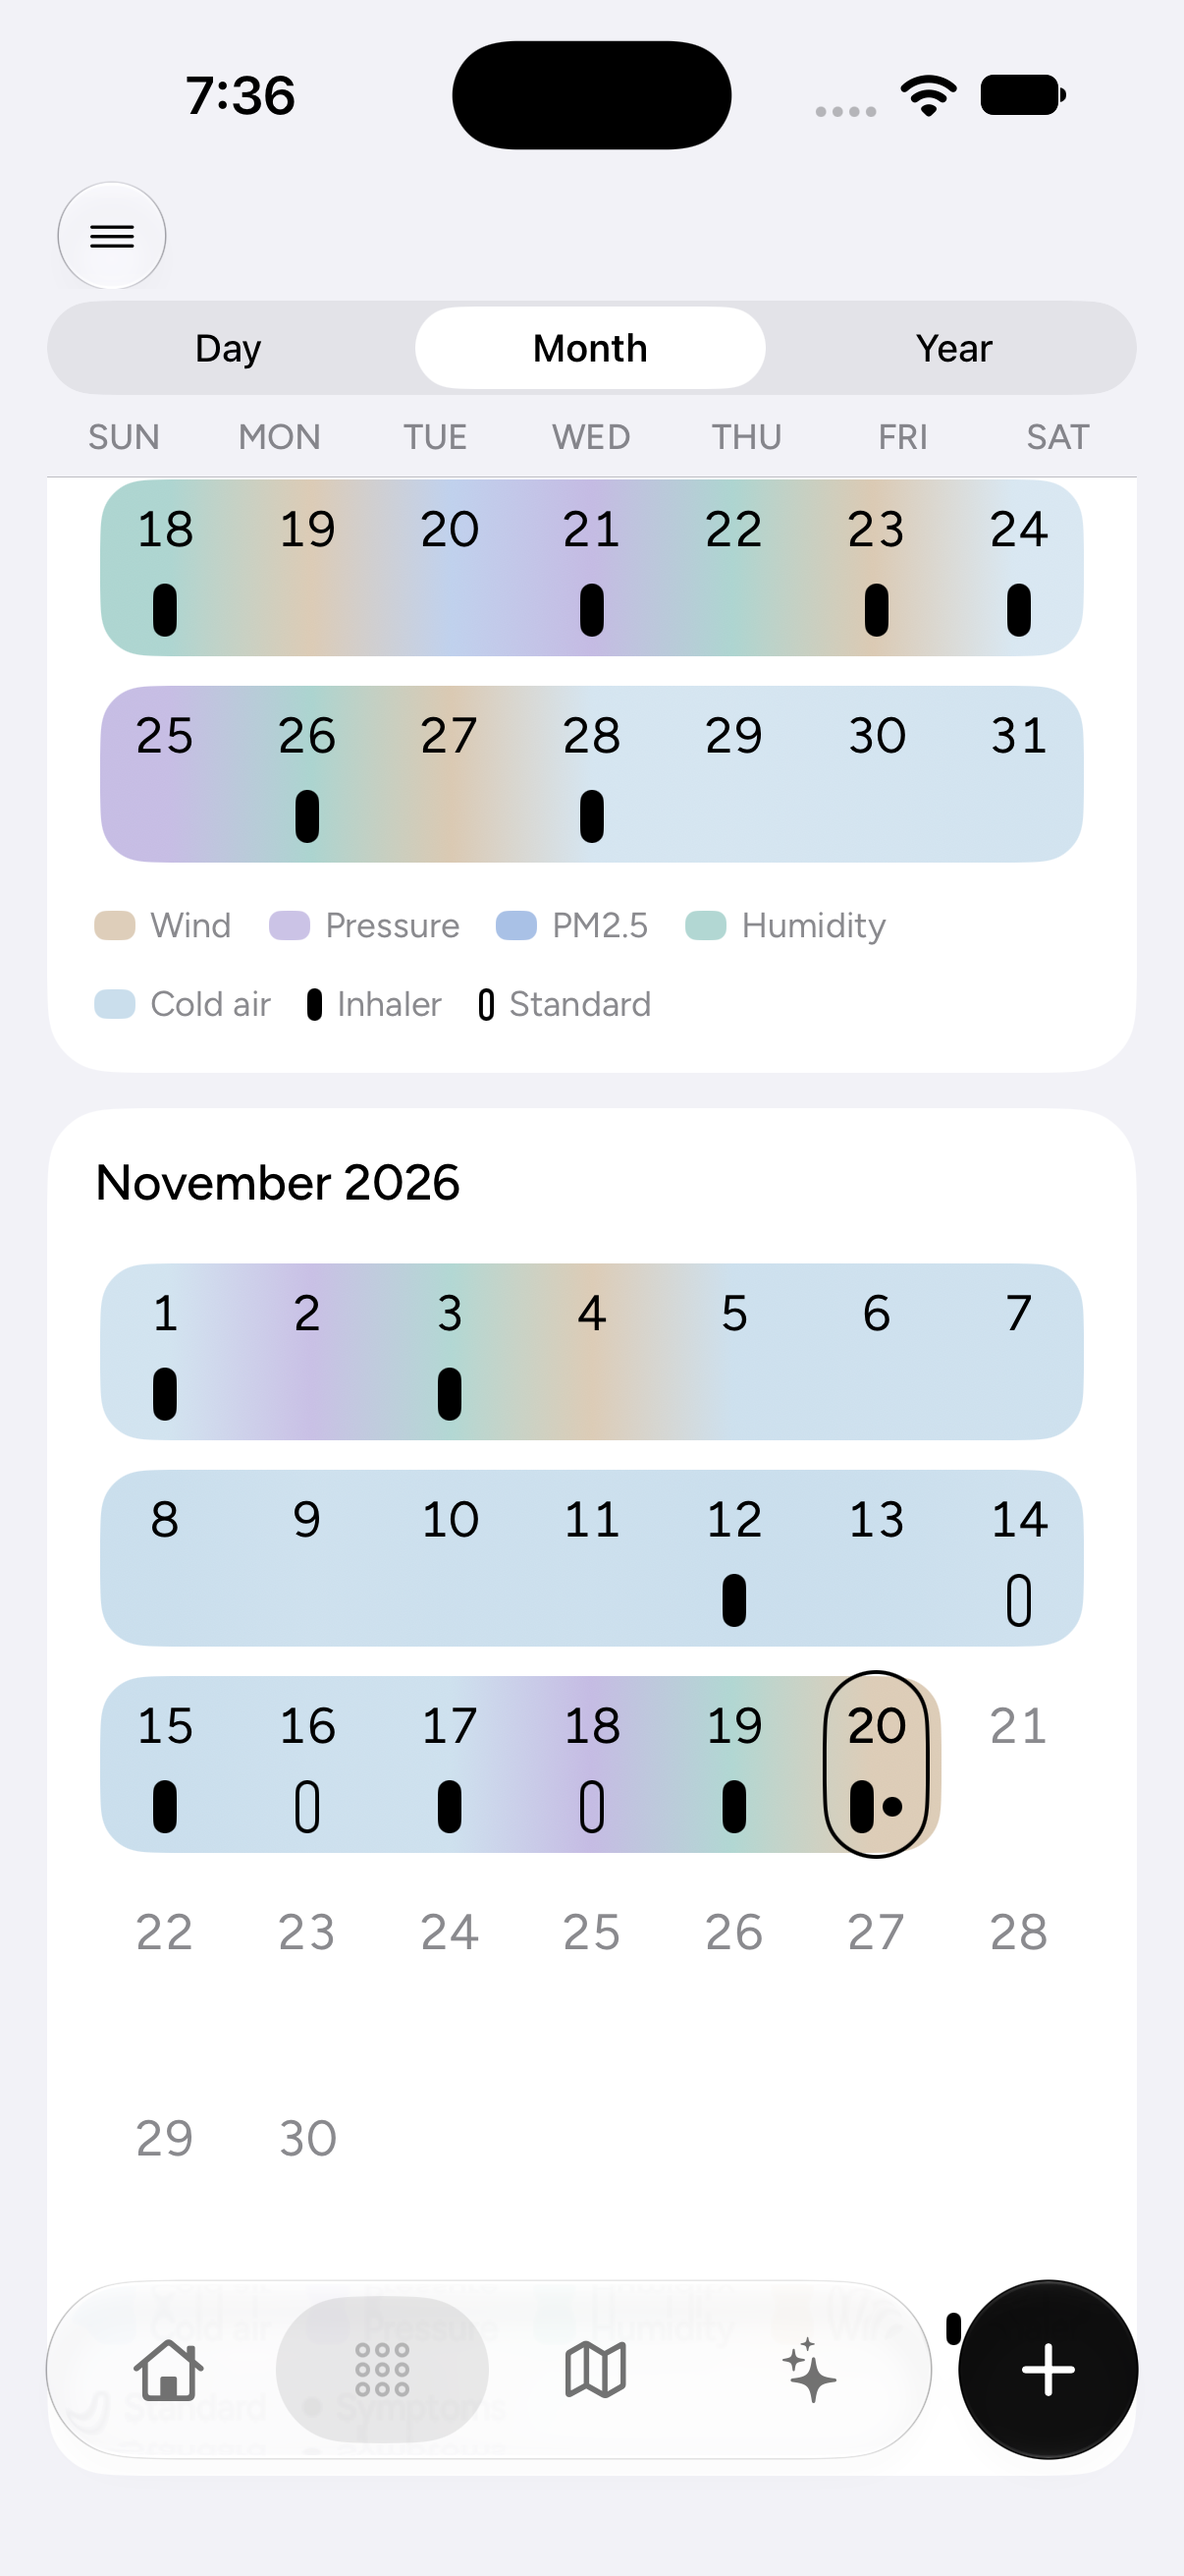
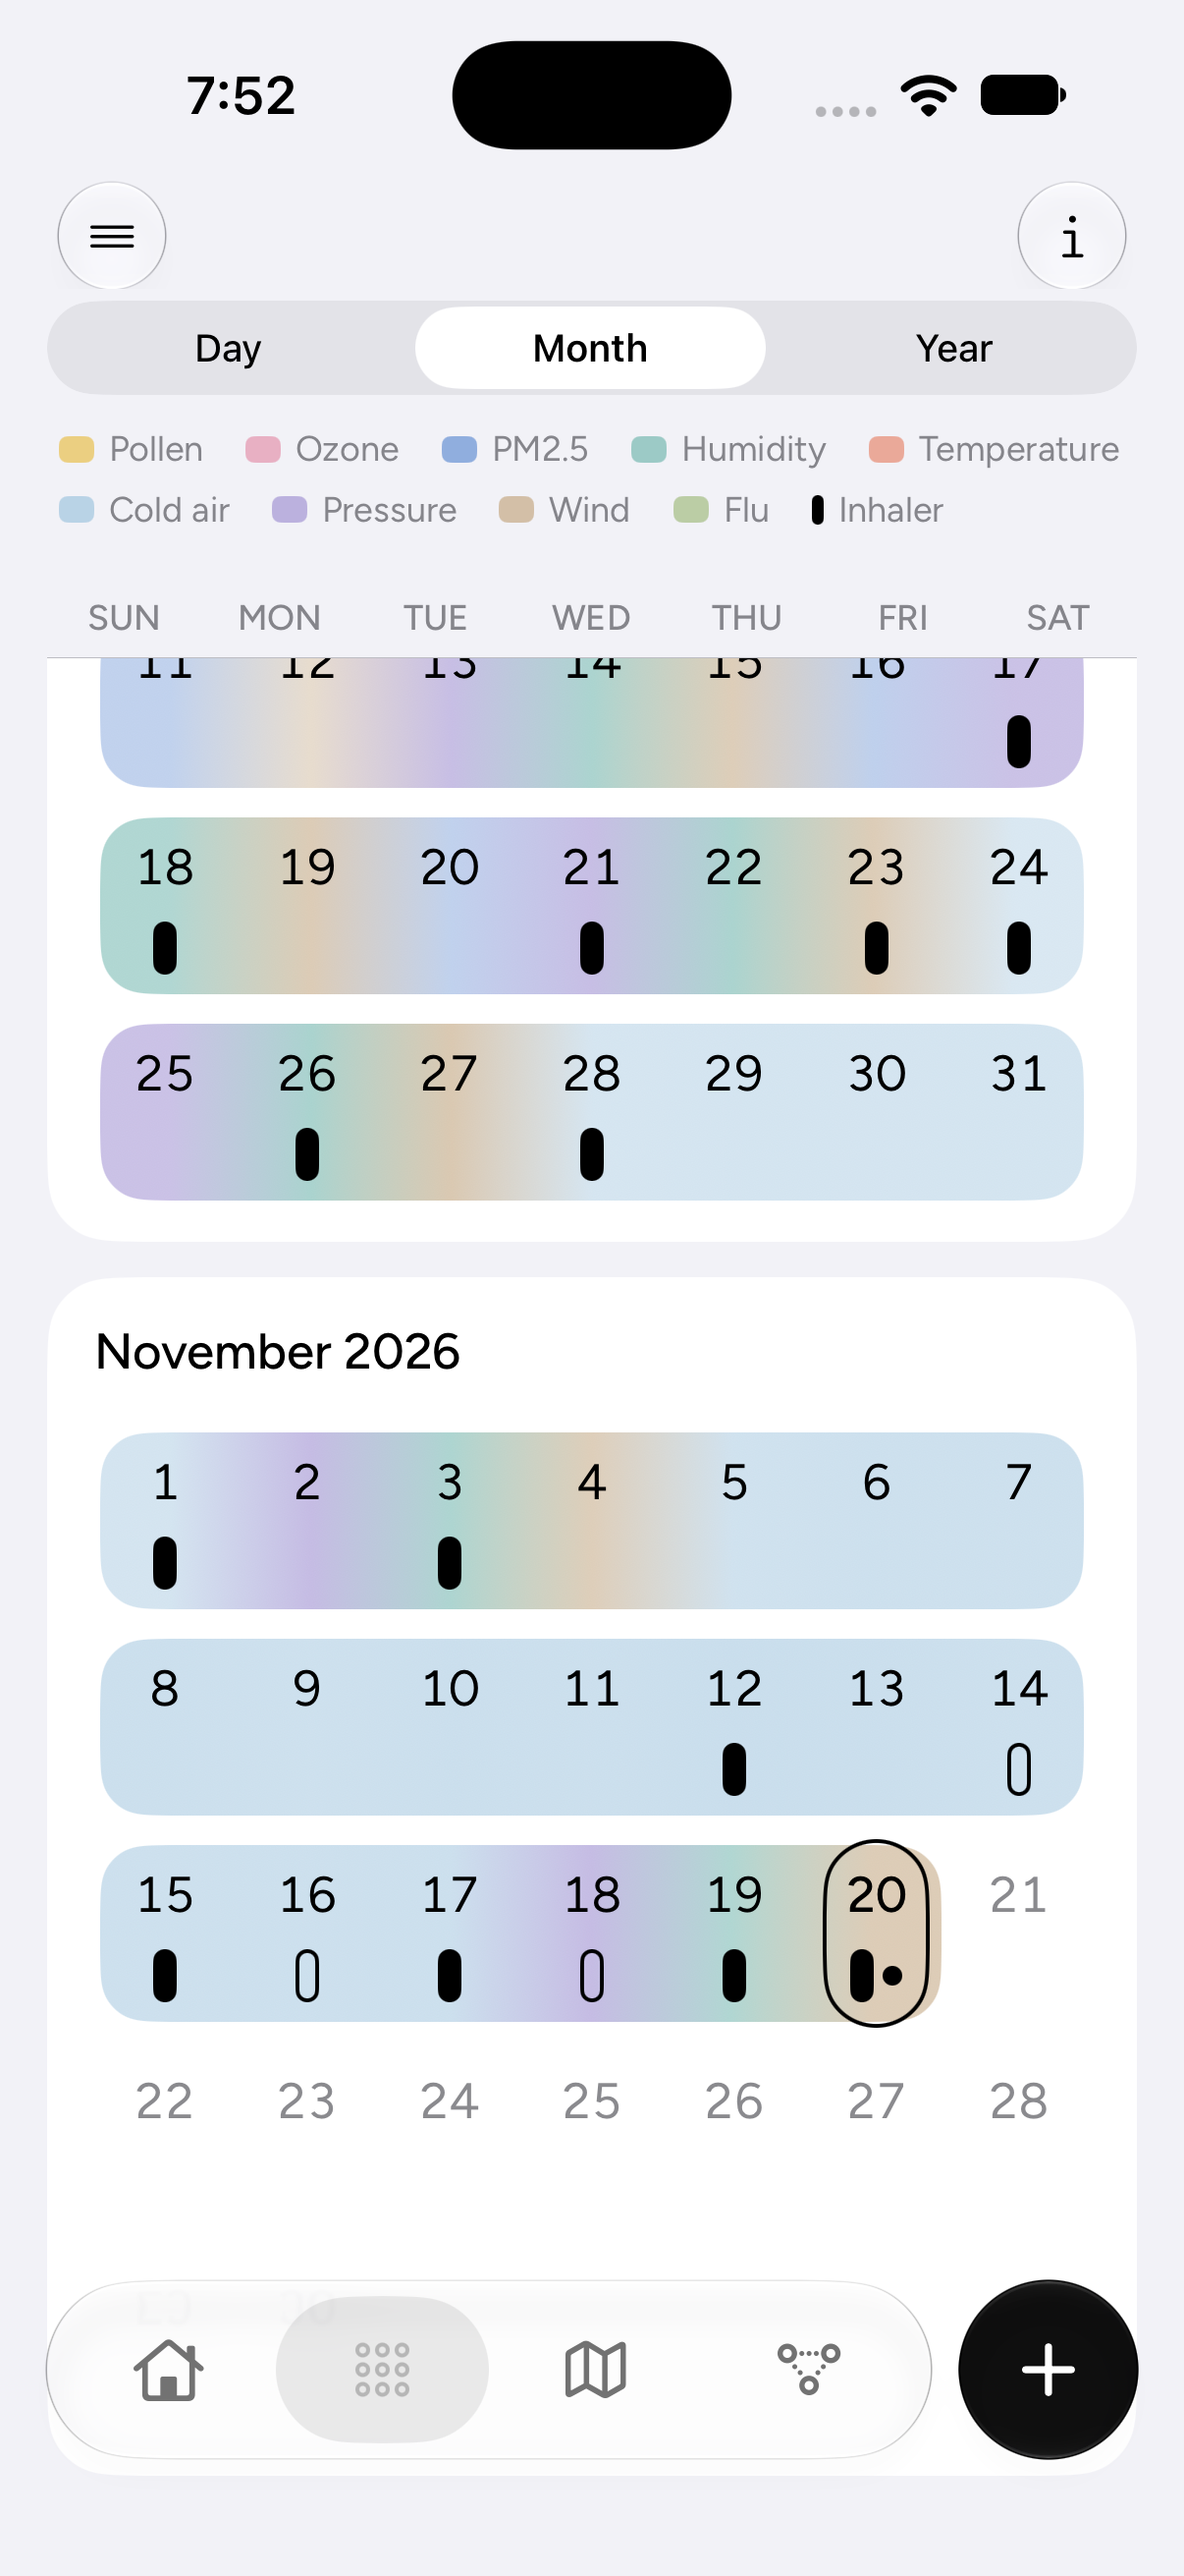
Indoors on Insights, 2024 sample year, colour key on Month and Year
- Insights: a new Indoors family (cooking, pets, cleaning, dust, mold, smoke, strong scents) from confirmed
  journal tags; Allergens and Irritants now cover the outdoor air only. Archetype "Home-led".
- Year reaches back to 2024 in the demo, each year with its own sample seasons
- A two-line colour key pinned over Month and Year, set apart from the weekdays; ⓘ keeps the longer key

Core tests: 227 pass (profile now has six families).

diff --git a/ios/AsthmaCore/Sources/AsthmaCore/Lift/AirProfile.swift b/ios/AsthmaCore/Sources/AsthmaCore/Lift/AirProfile.swift
@@ -13,6 +13,8 @@ public struct AirProfile: Sendable, Equatable {
     /// History: keep them (`exertion` reads "Exercise").
     public enum Category: String, Sendable, CaseIterable, Identifiable {
         case weather, biologics, particulates, exertion, infections
+        /// What you note about where you were (April, Nov 20): cooking, pets, cleaning, dust, mold, smoke, scents.
+        case indoor
         public var id: String { rawValue }
 
         public var title: String {
@@ -23,6 +25,7 @@ public struct AirProfile: Sendable, Equatable {
             case .exertion: "Exercise"
             // Colds going around and colds you mention. Never "infection" about you.
             case .infections: "Colds and flu"
+            case .indoor: "Indoors"
             }
         }
 
@@ -30,24 +33,27 @@ public struct AirProfile: Sendable, Equatable {
         public var covers: String {
             switch self {
             case .weather: "Cold, dry air, heat and humidity, sudden changes"
-            case .biologics: "Pollen, mold, pets"
-            case .particulates: "Fine particles, ozone, smoke, fumes, strong scents"
+            case .biologics: "Pollen"
+            case .particulates: "Fine particles, ozone, wildfire smoke"
             case .exertion: "Being active in the hour before"
             case .infections: "Flu-like illness around, colds you mention"
+            case .indoor: "Cooking, pets, cleaning, dust, mold, smoke, strong scents"
             }
         }
 
-        /// About you, not the air: printed in the text colour, never on the map.
-        public var isBody: Bool { self == .exertion || self == .infections }
+        /// About you, not the outdoor air: printed in the text colour, never on the map. Indoors is what you
+        /// noted, so it isn't on the map either.
+        public var isBody: Bool { self == .exertion || self == .infections || self == .indoor }
 
         /// Which lift-table bins belong here. Time and place (hour, season, place, indoor/outdoor) and stress
         /// sit outside the families.
         public static func of(bin: String) -> Category? {
             switch bin {
             case "temp", "humidity", "temp_drop", "heat_alert", "wind", "tag_coldAir", "pressure_change", "storm": .weather
-            case "pollen_weed", "pollen_tree", "pollen_grass", "tag_pets", "tag_mold": .biologics
-            case "pm25", "ozone", "smoke_at_point", "tag_smoke", "tag_dust", "tag_cleaningProducts", "tag_strongScents",
-                 "tag_cooking": .particulates
+            case "pollen_weed", "pollen_tree", "pollen_grass": .biologics
+            case "pm25", "ozone", "smoke_at_point": .particulates
+            // What you noted indoors gets its own family (April, Nov 20), apart from the outdoor air.
+            case "tag_pets", "tag_mold", "tag_smoke", "tag_dust", "tag_cleaningProducts", "tag_strongScents", "tag_cooking": .indoor
             case "tag_exercise", "exertion": .exertion
             case "ili", "tag_coldOrFlu": .infections
             default: nil
@@ -123,6 +129,7 @@ public struct AirProfile: Sendable, Equatable {
         let ozone = row("ozone", "high", 6, 14, 7, 40, gated: true)
         let humid = row("humidity", "humid", 5, 14, 9, 40, gated: false)
         let exercise = row("tag_exercise", "yes", 2, 6, 2, 15, gated: false)
+        let pets = row("tag_pets", "yes", 3, 7, 2, 16, gated: false)
         func gap(_ r: LiftRow) -> Double { r.attackRate - r.baselineRate }
         return AirProfile(axes: [
             Axis(category: .weather, strength: gap(humid), status: .early, lead: humid),
@@ -130,6 +137,7 @@ public struct AirProfile: Sendable, Equatable {
             Axis(category: .particulates, strength: gap(ozone), status: .pattern, lead: ozone),
             Axis(category: .exertion, strength: gap(exercise), status: .early, lead: exercise),
             Axis(category: .infections, strength: 0, status: .notTracked, lead: nil),
+            Axis(category: .indoor, strength: gap(pets), status: .early, lead: pets),
         ])
     }()
 }

diff --git a/ios/AsthmaCore/Sources/AsthmaCore/Lift/Archetype.swift b/ios/AsthmaCore/Sources/AsthmaCore/Lift/Archetype.swift
@@ -14,7 +14,7 @@ public struct Archetype: Sendable, Equatable {
     public enum Kind: String, Codable, Sendable, CaseIterable {
         case forming, noClearTrigger
         // One family leads. Weather by its group; `weather` when its lead row has no group.
-        case weather, coldAir, heatHumid, suddenChange, biologics, particulates, exertion, infections
+        case weather, coldAir, heatHumid, suddenChange, biologics, particulates, exertion, infections, indoor
         // Known pairs.
         case hotHazy, coldEffort, stormSeason, seasonal, coldSeason
         /// Any other pair: named from its lead and companion (`name` on the archetype, kept in the snapshot).
@@ -68,6 +68,7 @@ public struct Archetype: Sendable, Equatable {
         case .particulates: .particulates
         case .exertion: .exertion
         case .infections: .infections
+        case .indoor: .indoor
         }
     }
 
@@ -107,6 +108,7 @@ public struct Archetype: Sendable, Equatable {
         case .particulates: "Air-quality-led"
         case .exertion: "Effort-led"
         case .infections: "Comes with colds"
+        case .indoor: "Home-led"
         case .hotHazy: "Hot, hazy days"
         case .coldEffort: "Cold air and effort"
         case .stormSeason: "Storm season"
@@ -136,6 +138,7 @@ public struct Archetype: Sendable, Equatable {
         case .particulates: "poor air"
         case .exertion: "effort"
         case .infections: "colds going around"
+        case .indoor: "things indoors"
         }
     }
 
@@ -148,10 +151,11 @@ public struct Archetype: Sendable, Equatable {
         case .coldAir: "Your flare days tend to come with cold or dry air."
         case .heatHumid: "Your flare days tend to be hot, or heavy and humid."
         case .suddenChange: "Your flare days tend to follow a sharp drop in temperature or a change in the weather."
-        case .biologics: "Your flare days line up with living things in the air: pollen, pets or mold."
+        case .biologics: "Your flare days line up with pollen in the air."
         case .particulates: "Your flare days line up with what's floating in the air: ozone, fine particles or smoke."
         case .exertion: "Your flare days come after being active."
         case .infections: "Your flare days tend to come when colds and flu are going around."
+        case .indoor: "Your flare days come with things indoors, like cooking, pets or cleaning."
         case .hotHazy: "Your flare days tend to be hot, with ozone or fine particles up."
         case .coldEffort: "Your flare days come with effort in cold or dry air."
         case .stormSeason: "Your flare days come when the weather turns while pollen is up."
@@ -228,6 +232,7 @@ public extension AirProfile {
         .particulates: ["Coarse dust (PM10)", "Traffic fumes (NO₂)"],
         .exertion: [],
         .infections: ["Coming down with something"],
+        .indoor: [],
     ]
 
     /// Every trigger in a category: the biggest flare-vs-baseline gap first (that's the one that leads the
@@ -244,7 +249,7 @@ public extension AirProfile {
         // listed, so the family reads complete. Journal tags wait for a reviewed note, except in Self, which
         // is nothing but tags: without them the card would open on nothing.
         for def in Bins.all where Category.of(bin: def.bin) == c && bins[def.bin] == nil
-            && (!def.bin.hasPrefix("tag_") || c == .exertion) {
+            && (!def.bin.hasPrefix("tag_") || c == .exertion || c == .indoor) {
             out.append(Trigger(name: Bins.label(def.bin), strength: .notTracked, row: nil))
         }
         for missing in notYet[c] ?? [] where !out.contains(where: { $0.name == missing }) {

diff --git a/ios/AsthmaLog/Journal/MenusMomentsView.swift b/ios/AsthmaLog/Journal/MenusMomentsView.swift
@@ -93,11 +93,14 @@ struct MenusMomentsView: View {
             switch mode {
             case .day: dayList(counts)
             case .month:
-                // The weekdays stay put above the scrolling months.
+                // The key, then the weekdays, stay put above the scrolling months (April, Nov 20: the key at a glance).
+                Self.keyStrip.padding(.bottom, 22)
                 weekdayHeader.padding(.horizontal, 16).padding(.bottom, 6)
                 Divider().padding(.horizontal, 16)
                 monthList(counts)
-            case .year: yearList(counts)
+            case .year:
+                Self.keyStrip.padding(.bottom, 16)
+                yearList(counts)
             }
         }
         .sensoryFeedback(.selection, trigger: mode)
@@ -272,6 +275,27 @@ struct MenusMomentsView: View {
         }
     }
 
+    /// The colours at a glance, pinned over Month and Year (April, Nov 20): a row you can slide, each colour and its
+    /// name, then the inhaler mark. ⓘ has the longer key.
+    static var keyStrip: some View {
+        // Wrapped, not a sideways scroll (April, Nov 20): two lines with room between them.
+        FlowLayout(spacing: 14, lineSpacing: 6) {
+            ForEach(AirBlanket.keyOrder, id: \.self) { k in
+                HStack(spacing: 5) {
+                    RoundedRectangle(cornerRadius: 3, style: .continuous).fill(AirBlanket.ink(k).opacity(0.75)).frame(width: 12, height: 9)
+                    Text(k).font(Theme.Figtree.font(size: 12)).foregroundStyle(.secondary)
+                }
+            }
+            HStack(spacing: 5) {
+                pill(filled: true, width: 4, height: 10)
+                Text("Inhaler").font(Theme.Figtree.font(size: 12)).foregroundStyle(.secondary)
+            }
+        }
+        .frame(maxWidth: .infinity, alignment: .leading)
+        .padding(.horizontal, 20).padding(.top, 4)
+        .accessibilityElement(children: .combine)
+    }
+
     private var weekdayHeader: some View {
         let symbols = cal.veryShortStandaloneWeekdaySymbols
         let order = (0..<7).map { (cal.firstWeekday - 1 + $0) % 7 }
@@ -401,7 +425,9 @@ struct MenusMomentsView: View {
     // MARK: Year
 
     private var years: [Int] {
-        Array(cal.component(.year, from: firstDay)...cal.component(.year, from: now))
+        // The demo reaches back to 2024 (April, Nov 20), so the sample seasons show over more than one year.
+        let first = cal.component(.year, from: firstDay)
+        return Array((AirBlanket.demoAir ? min(first, 2024) : first)...cal.component(.year, from: now))
     }
 
     private func yearList(_ counts: [Date: (rescue: Int, standard: Int)]) -> some View {

diff --git a/ios/AsthmaLog/Insights/AirRadar.swift b/ios/AsthmaLog/Insights/AirRadar.swift
@@ -49,6 +49,7 @@ struct AirRadar: View {
             case .particulates: return Theme.airPM25.color
             case .exertion: return Theme.airNO2.color.mix(with: Theme.airPM10.color, by: 0.4)
             case .infections: return Theme.airIllness.color
+            case .indoor: return Theme.airNO2.color
             }
         }
         return switch c {
@@ -58,6 +59,7 @@ struct AirRadar: View {
         // About you, not the air: the key ink, like the text (Print, owner Oct 21), never a new hue.
         case .exertion: WeatherColor.coolFamilies ? WeatherColor.hex(0x9470CD) : WeatherColor.flat ? Color.primary : Theme.rescueSoft
         case .infections: WeatherColor.coolFamilies ? WeatherColor.hex(0x5F75C1) : WeatherColor.flat ? Color.primary : Theme.rescueSoft
+        case .indoor: WeatherColor.coolFamilies ? WeatherColor.hex(0x8A7F70) : WeatherColor.flat ? Color.primary : Theme.rescueSoft
         }
     }
 
@@ -263,6 +265,7 @@ extension AirProfile.Category {
         case .particulates: "Irritants"
         case .exertion: "Exercise"
         case .infections: "Colds and flu"
+        case .indoor: "Indoors"
         }
     }
 }

diff --git a/ios/AsthmaLog/Journal/AirBlanket.swift b/ios/AsthmaLog/Journal/AirBlanket.swift
@@ -46,6 +46,9 @@ struct AirBlanket: View {
 
     /// Watercolour palette (April, Nov 20: calmer than the flowers' full inks, mid-tone like paint on paper).
     /// Same hue for each condition as the garden, so they still read as one family.
+    /// The colours in the order the keys list them.
+    static let keyOrder = ["Pollen", "Ozone", "PM2.5", "Humidity", "Temperature", "Cold air", "Pressure", "Wind", "Flu"]
+
     static func ink(_ name: String) -> Color {
         func hex(_ v: UInt32) -> Color {
             Color(red: Double(v >> 16 & 0xFF) / 255, green: Double(v >> 8 & 0xFF) / 255, blue: Double(v & 0xFF) / 255)

diff --git a/ios/AsthmaLog/Theme/Icons.swift b/ios/AsthmaLog/Theme/Icons.swift
@@ -10,6 +10,7 @@ enum Icons {
     static let me = "person.fill"
     static let exercise = "figure.run"
     static let colds = "facemask.fill"
+    static let indoor = "sofa.fill"
     /// Your voice and your body: their own stops on the rail.
     static let voice = "waveform"
     static let body = "figure.walk"
@@ -36,6 +37,7 @@ enum Icons {
         case .biologics: biologics
         case .exertion: exercise
         case .infections: colds
+        case .indoor: indoor
         }
     }
 

diff --git a/ios/AsthmaCore/Tests/AsthmaCoreTests/AirProfileTests.swift b/ios/AsthmaCore/Tests/AsthmaCoreTests/AirProfileTests.swift
@@ -19,7 +19,7 @@ import Testing
 
     @Test func demoFramesGiveABoundedShapeWithCounts() {
         let p = AirProfile(report: Lift.compute(DemoData.frames(), gate: .demo))
-        #expect(p.axes.count == 5)
+        #expect(p.axes.count == 6)
         #expect(p.axis(.infections).status == .notTracked)
         #expect(p.axes.allSatisfy { (0...1).contains($0.strength) })
         // No reviewed notes in the demo frames: exertion can't be read yet.

diff --git a/ios/AsthmaLog/Insights/MenusProfileFlower.swift b/ios/AsthmaLog/Insights/MenusProfileFlower.swift
@@ -49,7 +49,7 @@ struct MenusProfileFlower: View {
         case .particulates: return ink("PM2.5")
         case .biologics: return ink("Pollen")
         case .weather: return ink("Temperature")
-        case .exertion, .infections: return Color(white: 0.45)
+        case .exertion, .infections, .indoor: return Color(white: 0.45)
         }
     }
 

diff --git a/ios/AsthmaLog/Onboarding/AirReadings.swift b/ios/AsthmaLog/Onboarding/AirReadings.swift
@@ -89,7 +89,7 @@ struct AirReadings: View {
         case .weather: Icons.weather
         case .particulates: Icons.particles
         case .biologics: Icons.biologics
-        case .exertion, .infections: Icons.category(f)
+        case .exertion, .infections, .indoor: Icons.category(f)
         }
     }
 
